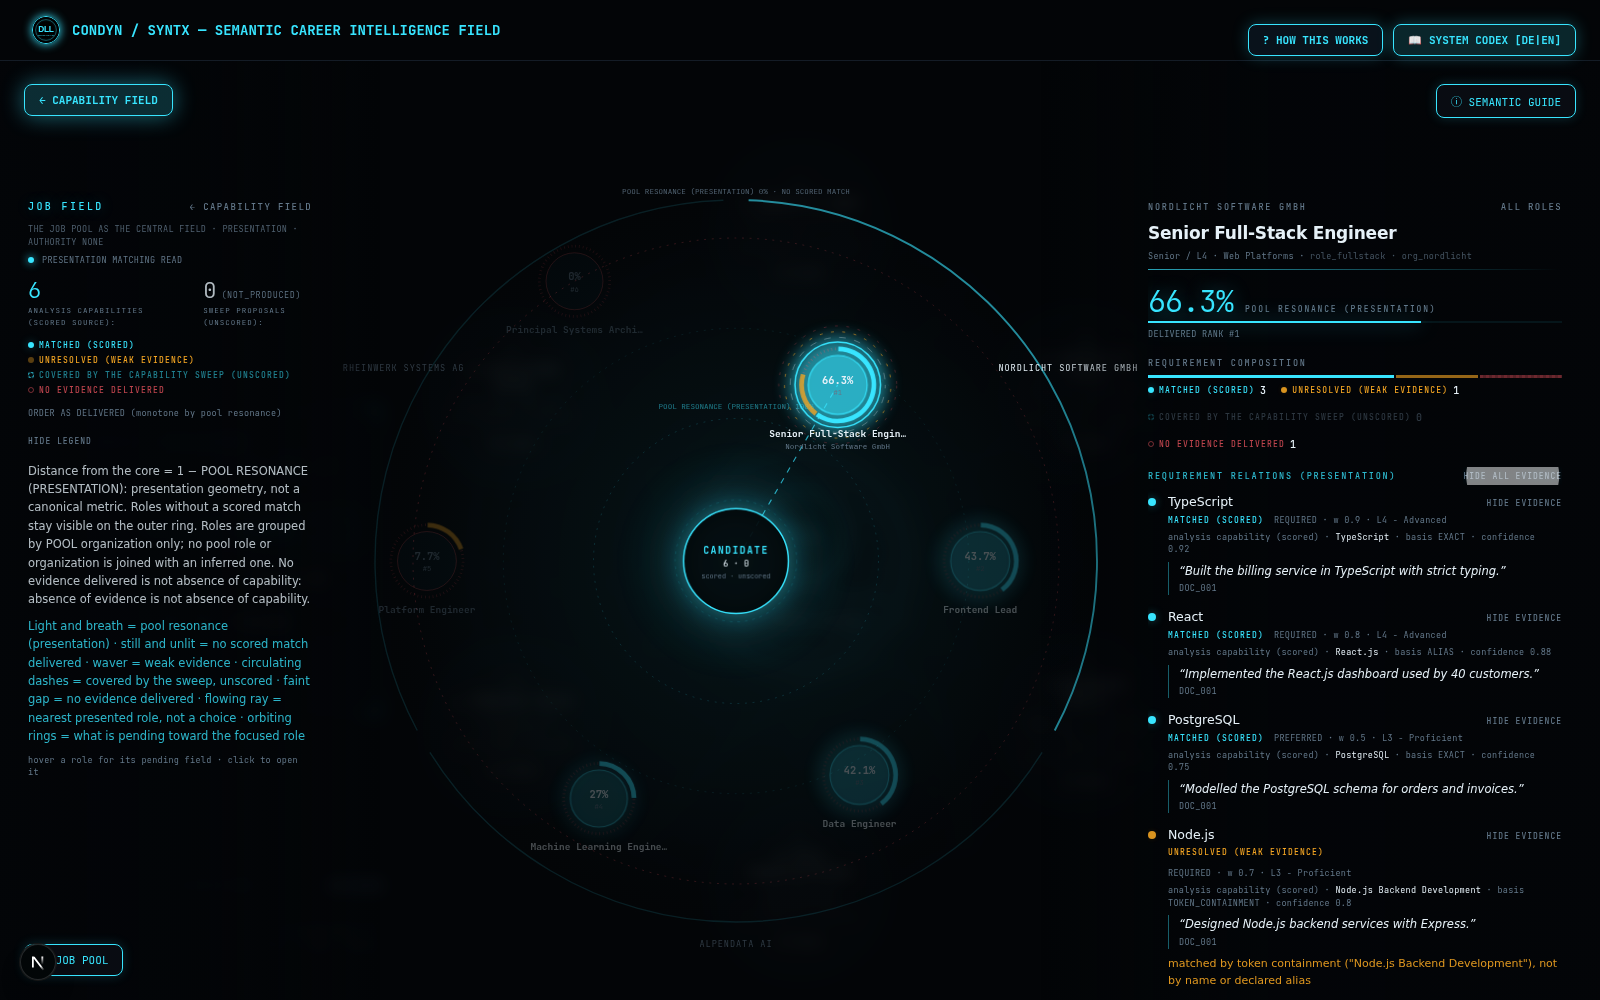
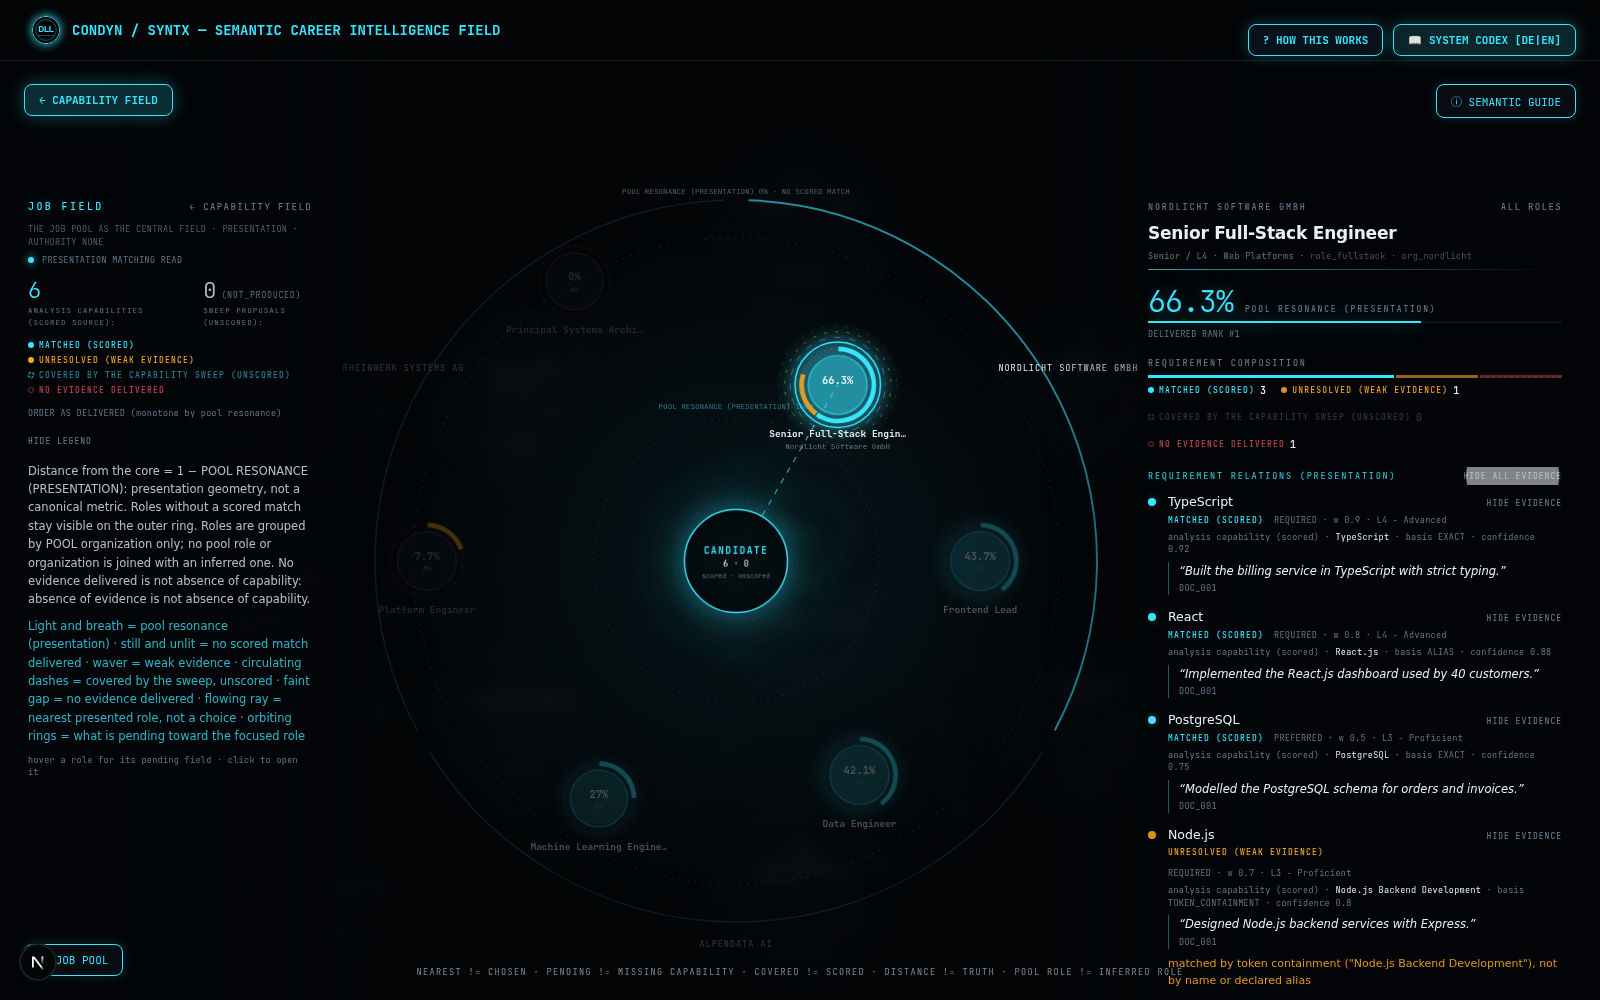
fix(career): Job Field ground line visible: lifted by the page header height (B-JF-GROUND-LINE)
The planetarium root starts below the header with height 100vh, so its bottom edge is off-screen, and the overlay's
backdrop-filter makes fixed descendants relative to it. Evidence frame 17 refreshed; e2e 10/10, SSR 7/7, tsc 0.

diff --git a/app/components/career/demo/JobField.tsx b/app/components/career/demo/JobField.tsx
@@ -590,8 +590,8 @@ export function JobField({ workflow, analysisSource, selectedRoleId, onSelectRol
         )}
       </div>
 
-      {/* Ground line: the laws of the field, always visible, never in the way. */}
-      <span data-testid="job-field-non-claims" style={{ position: "absolute", left: "50%", bottom: "26px", transform: "translateX(-50%)", maxWidth: "min(900px, 80vw)", textAlign: "center", ...micro, fontSize: "8.5px", letterSpacing: "1.4px", color: "rgba(230, 241, 248, 0.55)", zIndex: 46 }}>{t.nonClaims}</span>
+      {/* Ground line: the laws of the field, always visible, never in the way. The planetarium root starts below the page header with a full-viewport height, so its own bottom edge is off-screen, and the overlay's backdrop filter pins fixed descendants to it as well; the line is lifted by the header height (B-JF-GROUND-LINE). */}
+      <span data-testid="job-field-non-claims" style={{ position: "absolute", left: "50%", bottom: "calc(var(--condyn-page-header-height, 60px) + 22px)", transform: "translateX(-50%)", maxWidth: "min(900px, 80vw)", textAlign: "center", ...micro, fontSize: "8.5px", letterSpacing: "1.4px", color: "rgba(230, 241, 248, 0.55)", zIndex: 46 }}>{t.nonClaims}</span>
     </div>
   );
 }

diff --git a/docs/career_analysis/JOB_FIELD_FRONTEND.md b/docs/career_analysis/JOB_FIELD_FRONTEND.md
@@ -209,7 +209,12 @@ visible focus ring) rather than as controls of a panel.
 | 2026-10-11 | same | job-field SSR/motion/presentation, panel SSR, GELB governance, PINK static, 2 sealed SIL suites | 56 passed |
 | 2026-10-11 | same | my e2e (10) and PINK's job-field.e2e (2), each on its own disposable DB, in parallel | 12/12; first frames showed the laws line too faint and the role-detail frame captured mid-reveal (jfRise 320 ms): ground line set to 8.5 px at 55 % ink, 450 ms settle before each evidence frame |
 | 2026-10-11 | same | rerun after the two corrections: full `test/career/job-pool` tree with e2e + PINK static + 5 sealed SIL suites + dock SSR; PINK's `job-field.e2e` in parallel on its own DB | 20 files / 131 passed; 2/2; tsc 0 |
+| 2026-10-11 | `7006014` | evidence frame 17 reviewed: the ground line was still invisible. Cause: the planetarium root starts below the page header with `height: 100vh`, so its bottom edge is off-screen; `position: fixed` did not help because the overlay's `backdrop-filter` makes it the containing block of fixed descendants. Repair: the line is absolute, lifted by `var(--condyn-page-header-height, 60px) + 22px` (B-JF-GROUND-LINE) | e2e 10/10 + SSR 7/7 rerun; frame 17 shows the laws under the canvas |
 
 Boundary B-JF-FONTS: no web font is loaded by the app shell; the mono and sans tokens resolve to the system faces
 (`'JetBrains Mono', monospace` / `system-ui`). Loading a face is an app-shell decision outside this field.
+
+Boundary B-JF-GROUND-LINE: bottom-anchored content inside the planetarium root is off-screen by the page header height,
+and fixed positioning is captured by the overlay's backdrop filter. The ground line reads the custom property
+`--condyn-page-header-height` (fallback 60 px); if the app shell changes the header height it should set that property.
 
